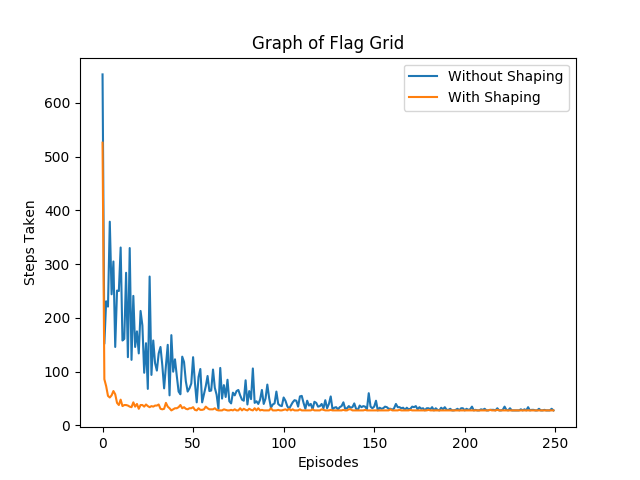
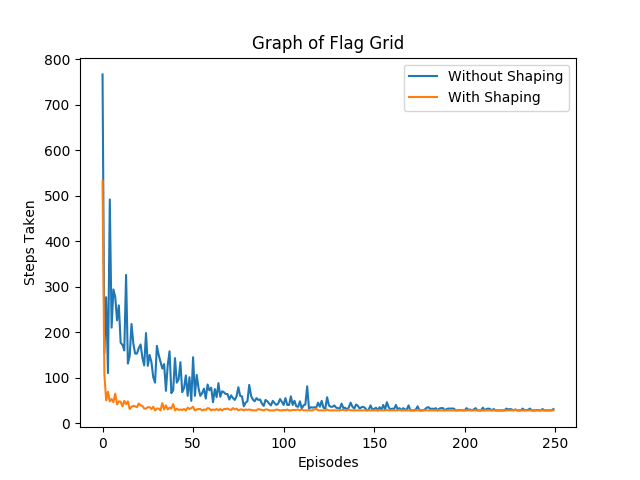
added different reward shaping

diff --git a/q_learning.py b/q_learning.py
@@ -25,7 +25,7 @@ def estimate_V(Q,n_states,n_actions):
         v.append(Q[s][best_action])
     return v
 
-def q_learning(player,alpha,epsilon,num_episodes,n_states,n_actions,gamma=1,eps_decay=1.001,shaping=False):
+def q_learning(player,alpha,epsilon,num_episodes,n_states,n_actions,shaping,gamma=1,eps_decay=1.001 ):
     Q = [[0]*n_actions for i in range(n_states)]
     stepsPerEpisode=[]
     print("started q_learning")
@@ -33,16 +33,23 @@ def q_learning(player,alpha,epsilon,num_episodes,n_states,n_actions,gamma=1,eps_
         state = player.initState
         episode_len = 0
         # if(epi%100 == 0):
-        # if shaping:
-        #     v = estimate_V(Q,n_states,n_actions)
+        # if shaping==2:
+            # v = estimate_V(Q,n_states,n_actions)
         while(1):
             episode_len+=1
             action = EpsilonGreedyPolicy(Q,state,epsilon)
             # action = np.random.choice(np.arange(n_actions),p = action_probs)
-            if shaping:
+            if shaping == 1:
                 # [next_state,reward,finished]=player.transition(state,action)
                 # reward += v[next_state]-v[state]
-                [next_state,reward,finished]=player.transition_with_reward_shaping(state,action)
+                [next_state,reward,finished]=player.transition_with_reward_shaping(state,action,1)
+            elif shaping==2:
+                [next_state,reward,finished]=player.transition_with_reward_shaping(state,action,2)
+            elif shaping == 3:
+                v = estimate_V(Q,n_states,n_actions)
+                [next_state,reward,finished]=player.transition(state,action)
+                reward += v[next_state]-v[state]
+
             else:
                 [next_state,reward,finished]=player.transition(state,action)
             next_best_action = np.argmax(Q[next_state])

diff --git a/main.py b/main.py
@@ -18,7 +18,7 @@ eps = 1
 num_actions = 4
 num_episode = 250
 lr = 0.5
-flag_pos = [[4,4],[0,0],[0,4],[4,0]]
+flag_pos = [[1,4],[2,0],[3,4],[4,0]]
 # flag_pos = [[0,4],[2,2]]
 
 num_states = n*n*len(flag_pos)
@@ -30,16 +30,23 @@ action_map2 = {0:"\u2191",1:"\u2193",2:"\u2192",3:"\u2190"}
 grid = gridSim(n,p,flag_pos,"Optimal Action Withounum_actionst Shaping")
 
 pl = player(grid)
-Q,stepsPerEpisode=q_learning(pl,lr,eps,num_episode,num_states,num_actions,shaping=False)
+Q,stepsPerEpisode=q_learning(pl,lr,eps,num_episode,num_states,num_actions,0)
 print(estimate_V(Q,num_states,num_actions))
 gui=show_Q_path(n,Q,action_map2,pl,"path without shaping")
 
 grid.__init__(n,p,flag_pos,"Optimal Action With Shaping")
 pl.__init__(grid)
 
-Q_shaping,stepsPerEpisode_shaping=q_learning(pl,lr,eps,num_episode,num_states,num_actions,shaping=True)
+Q_shaping,stepsPerEpisode_shaping=q_learning(pl,lr,eps,num_episode,num_states,num_actions,1)
 print(estimate_V(Q_shaping,num_states,num_actions))
 gui=show_Q_path(n,Q_shaping,action_map2,pl,"path with shaping")
+
+grid.__init__(n,p,flag_pos,"Optimal Action With Shaping 2")
+pl.__init__(grid)
+
+Q_shaping,stepsPerEpisode_shaping_2=q_learning(pl,lr,eps,num_episode,num_states,num_actions,2)
+print(estimate_V(Q_shaping,num_states,num_actions))
+gui=show_Q_path(n,Q_shaping,action_map2,pl,"path with shaping 2")
 
 # gui.mainloop()
 
@@ -53,7 +60,8 @@ plt.ylabel("Steps Taken")
 
 # plt.scatter(range(num_episode),stepsPerEpisode_shaping)
 plt.plot(range(num_episode),stepsPerEpisode_shaping,label='With Shaping')
+plt.plot(range(num_episode),stepsPerEpisode_shaping_2,label='With Shaping 2')
 plt.title("Graph of Flag Grid")
 plt.legend()
-plt.savefig('flag_grid.png')
+plt.savefig('flag_grid_2.png')
 plt.show()

diff --git a/player.py b/player.py
@@ -21,28 +21,34 @@ class player:
 			next_state-=n*n
 		return next_state,reward,finished
 
-	def transition_with_reward_shaping(self,state,action):
+	def transition_with_reward_shaping(self,state,action,type):
 		n = self.grid.n
 		collected = int(state/(n*n))
 		x = int((state%(n*n))/n)
 		y = state%n
 		[x1,y1,collected1,reward,finished]=self.grid.take_action(x,y,action)
-		reward = reward + self.reward_self(x,y,collected,x1,y1)
+		reward = reward + self.reward_self(x,y,collected,x1,y1,type)
 		self.states.append([x1,y1])
 		next_state=int(collected1*n*n + x1*n + y1)
 		if finished:
 			next_state-=n*n
 		return next_state,reward,finished
 
-	def reward_self(self,x,y,collected,x1,y1):
-		return self.phi(x,y,collected) - self.phi(x1,y1,collected)
+	def reward_self(self,x,y,collected,x1,y1,type):
+		if type==1:
+			return self.phi(x,y,collected) - self.phi(x1,y1,collected) 
+		elif type==2:
+			return self.phi2(x,y,collected) - self.phi2(x1,y1,collected) 
 
 	def phi(self,x,y,collected):
 		# return 3
 		target = self.grid.flag_pos[collected]
 		return (abs(x-target[0]) + abs(y-target[1]))
 		# return math.sqrt((x-target[0])**2 + (y-target[1])**2)
-
+	def phi2(self,x,y,collected):
+		total_flags = len(self.grid.flag_pos)
+		target = self.grid.flag_pos[total_flags-1]
+		return (abs(x-target[0]) + abs(y-target[1]))*(total_flags - collected)/total_flags
 	def reset(self):
 		self.states=[[0,0]]
 		self.grid.reset()
